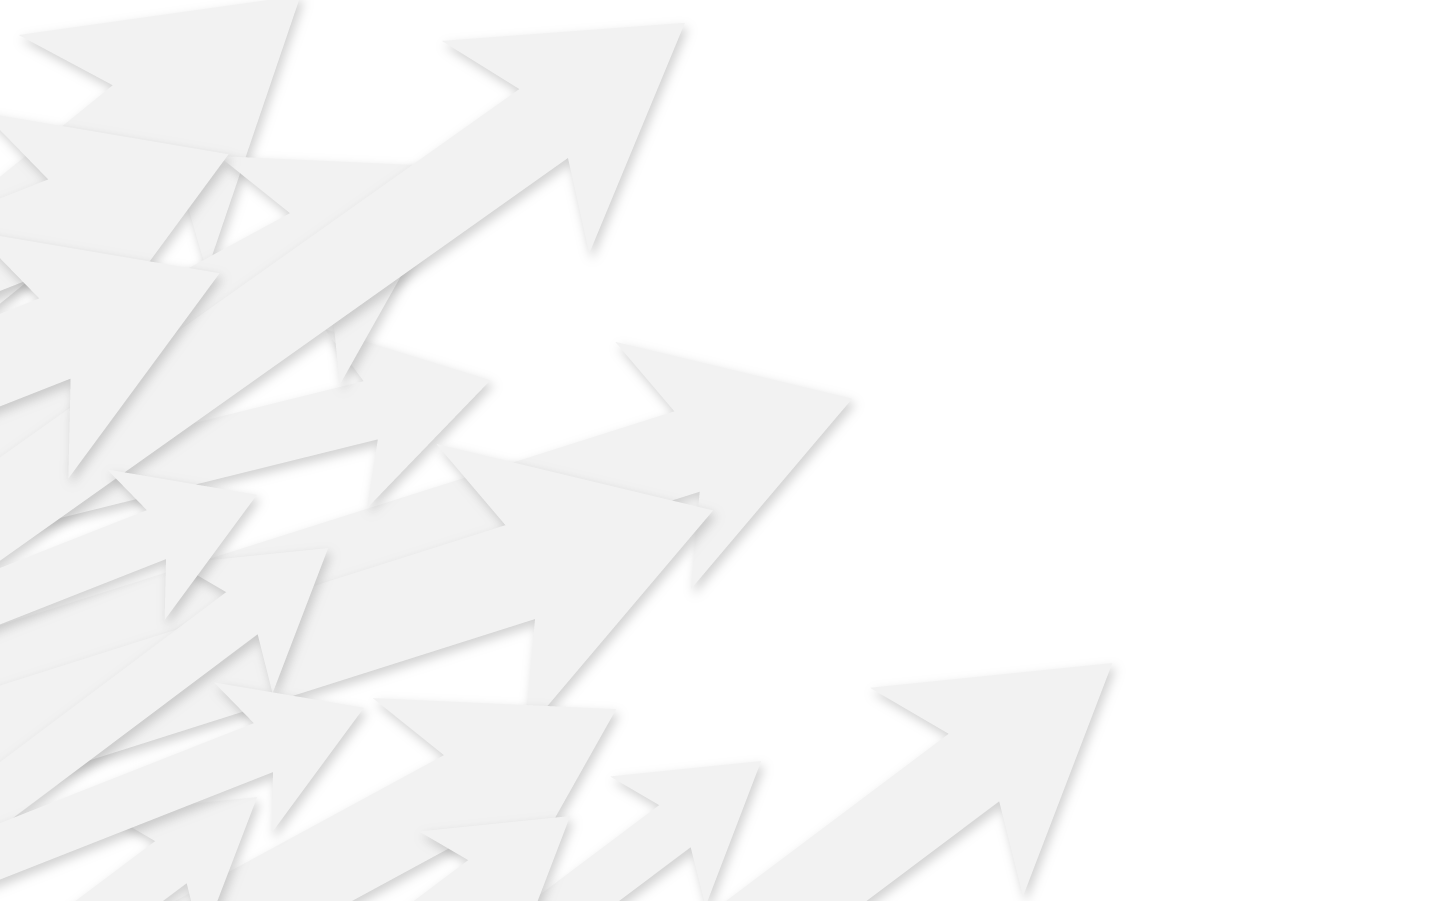
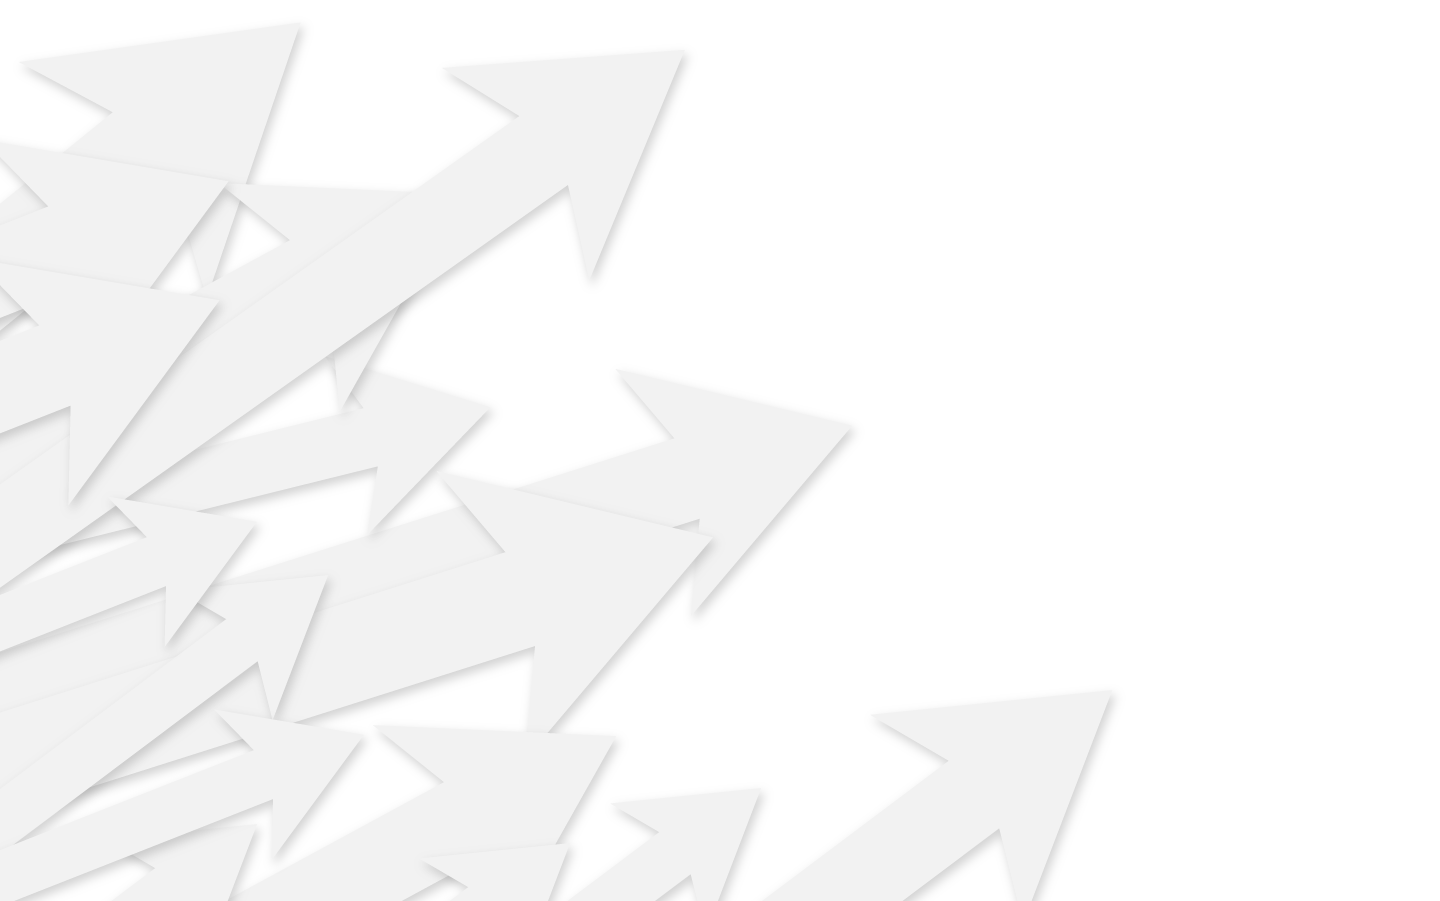
background tweaks

diff --git a/app/assets/stylesheets/styles.sass b/app/assets/stylesheets/styles.sass
@@ -124,11 +124,11 @@ section.home-panel
       max-width: 300px
 
   &#about-pp
-    background: image-url('arrows.png') no-repeat left bottom
+    background: image-url('arrows.png') no-repeat left top
     padding-top: 140px
     body.alpha &
       background-image: image-url('arrows.png'), image-url('earth.jpg')
-      background-position: left bottom, 50% top
+      background-position: left top, 50% top
     img#pp-example
       width: 100%
     img#device-icons
